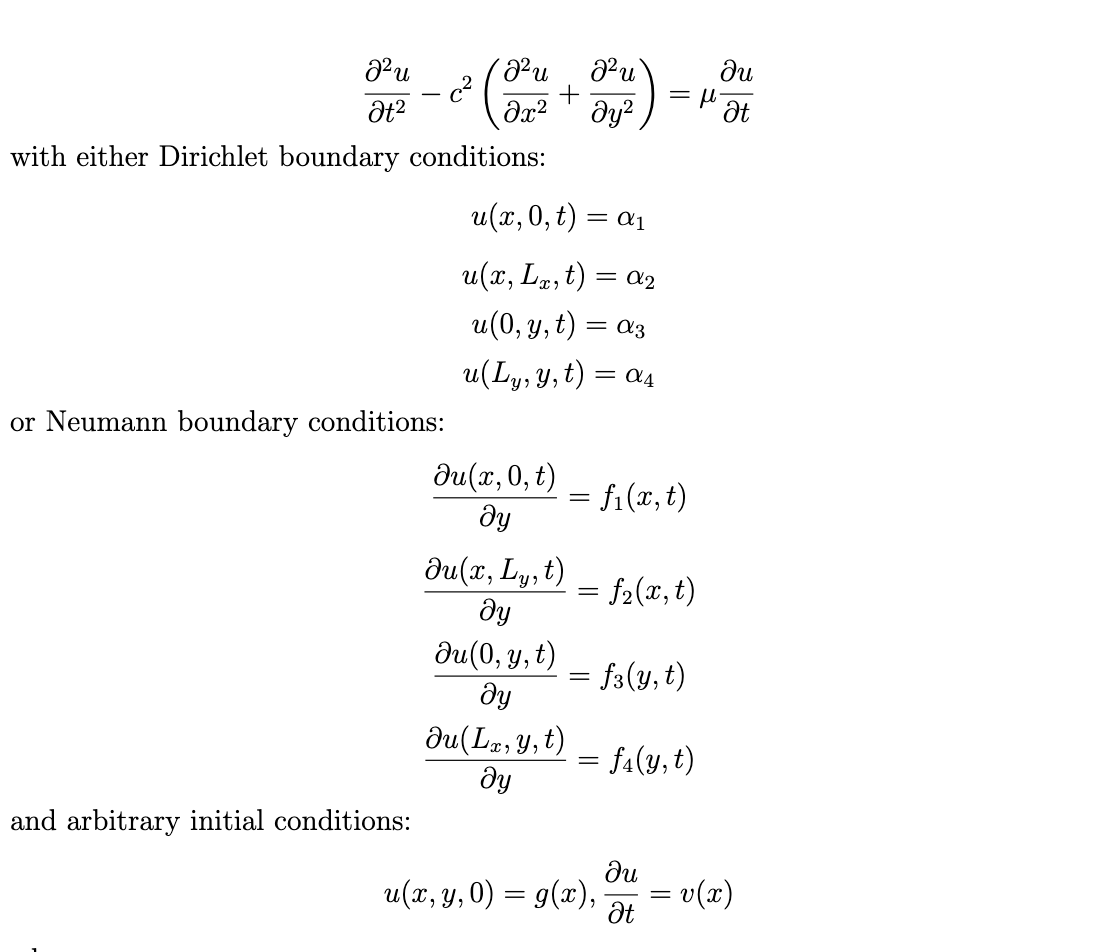
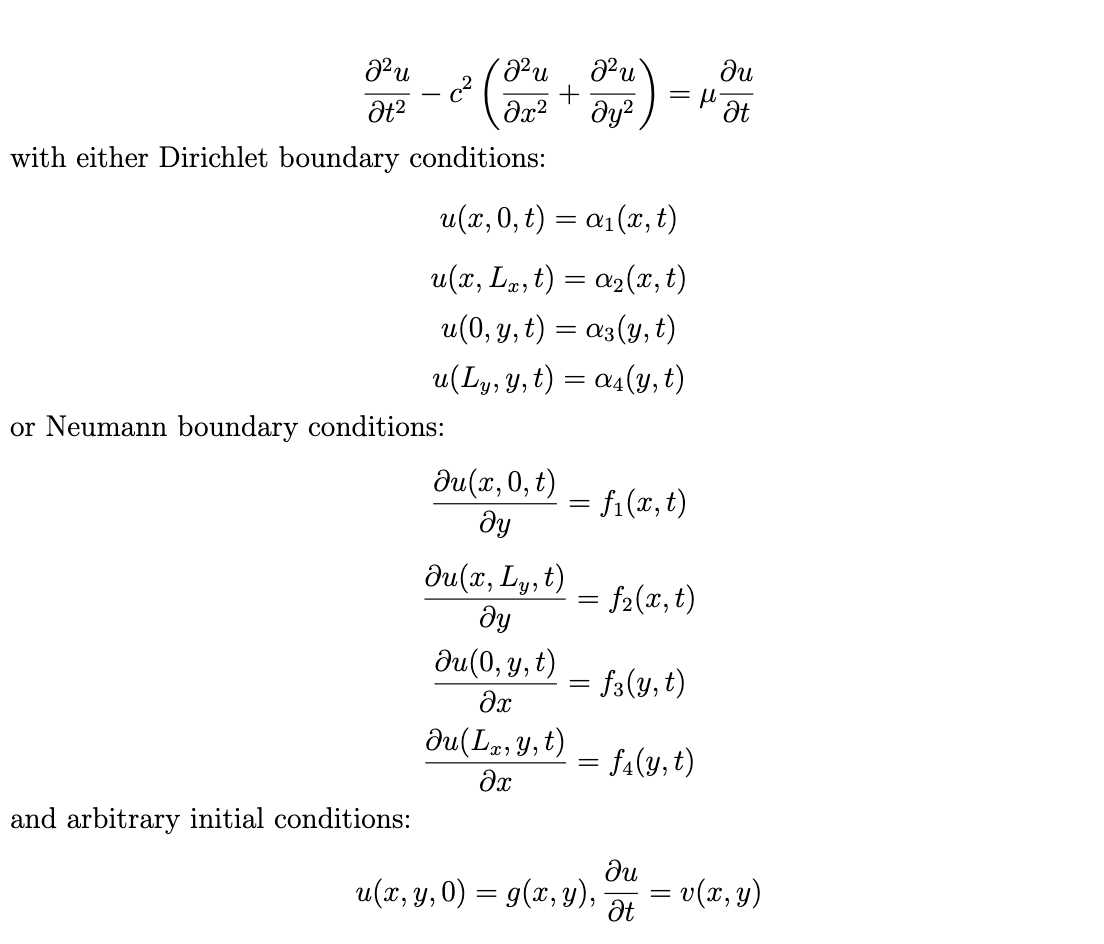
Added example gif to README.md

diff --git a/README.md b/README.md
@@ -1,6 +1,6 @@
 # Wave Equation Numerical Solver
 
-This project provides a MATLAB script to numerically solve the wave equation in a square 2D domain. The solver is capable of handling both Dirichlet and Neumann boundary conditions, along with arbitrary initial conditions. Additionally, it supports optional features such as forcing a sinus wave motion in the center of the domain and introducing an optional energy friction term. This script uses the central finite differences scheme. This can all be found in the file `WaveEquationNumerical.m`. This repository also includes an example analytical solution of the wave equation. More information can be found in the file `WaveEquationAnalytical.m`.
+This project provides a MATLAB script to numerically solve the wave equation in a square 2D domain. The solver is capable of handling both Dirichlet and Neumann boundary conditions, along with arbitrary initial conditions. Additionally, it supports optional features such as forcing a sinus wave motion in the center of the domain and introducing an optional energy friction term. This script uses the central finite differences scheme.
 
 ## Partial Differential Equation (PDE)
 The wave equation being solved by this script is a is given by:
@@ -12,7 +12,10 @@ where:
 - `c` is the wave propagation speed,
 - `µ` is a parameter determining the energy loss due to friction,
 - `x` and `y` are spatial coordinates,
-- `t` is time.
+- `t` is time,
+- `α₁`, `α₂`, `α₃`, `α₄` are real functions determining the eventual Dirichlet boundary condition,
+- `f₁`, `f₂`, `f₃`, `f₄` are real functions determining the eventual Neumann boundary condition,
+- `g` and `v` are real functions determining the initial condition.
 ## Usage
 
 To use the wave equation solver, follow these steps:
@@ -39,11 +42,12 @@ The first section of the script generates a numerical solution to the wave equat
 
 ## Visualization
 
-The second section of the script script generates a 3D plot of the wave evolution over time.
+The second section of the script generates a 3D plot of the wave evolution over time. An example of this can be seen below.
 
+![Example](Images/ExamplePlot.gif)
 ## Additional Notes
 
-- The script provides an example of an initial velocity function (`v_0`) that you can modify to suit your specific needs.
+- The script provides an example of an initial velocity function (`v`) that you can modify to suit your specific needs.
 
 - The solver supports both Dirichlet and Neumann boundary conditions. You can specify these conditions in the script as needed.
 
